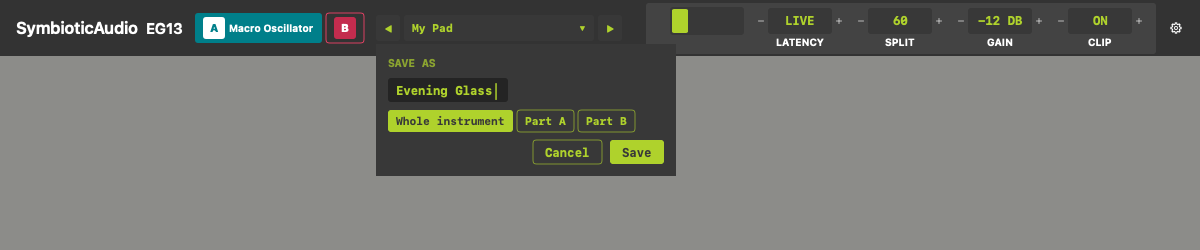
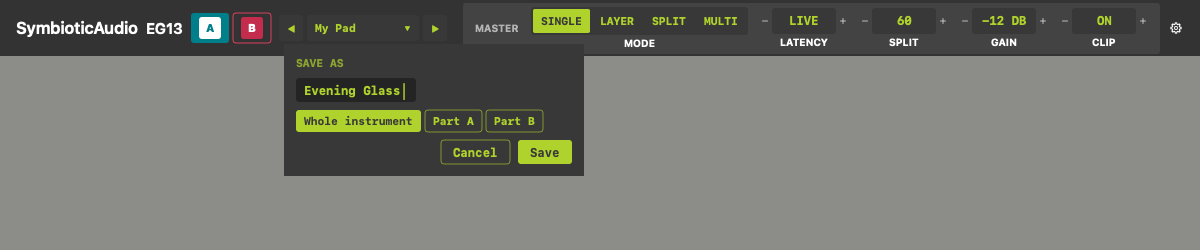
M7: keep MASTER intact beside the preset bar, record gate 5a
Claude-Session: https://claude.ai/code/session_01BfbDAN2RSSY1ZShBua2VNM

diff --git a/ui/EG13UI/Sources/EG13UI/Views/EG13HeaderView.swift b/ui/EG13UI/Sources/EG13UI/Views/EG13HeaderView.swift
@@ -18,9 +18,9 @@ struct EG13HeaderView: View {
     var body: some View {
         let part = synth.selectedPart
         let header = synth.editorControls(part: part).header
-        HStack(spacing: theme.spacing.m) {
-            wordmark
-            partTabs
+        HStack(spacing: theme.spacing.s) {
+            wordmark.fixedSize()
+            partTabs.layoutPriority(1)
             EG13PresetBar(synth: synth)
                 .environment(\.eg13ControlColors, EG13Palette.headerControls)
             Spacer(minLength: 0)
@@ -50,6 +50,13 @@ struct EG13HeaderView: View {
     }
 
     private var partTabs: some View {
+        ViewThatFits(in: .horizontal) {
+            partTabs(showsEngineName: true)
+            partTabs(showsEngineName: false)
+        }
+    }
+
+    private func partTabs(showsEngineName: Bool) -> some View {
         HStack(spacing: theme.spacing.xs) {
             ForEach(0..<EG13ParamID.parts, id: \.self) { part in
                 let selected = synth.selectedPart == part
@@ -61,7 +68,8 @@ struct EG13HeaderView: View {
                             .frame(width: 22, height: 22)
                             .background(RoundedRectangle(cornerRadius: 3)
                                 .fill(selected ? EG13Palette.white.color : EG13Palette.part(part).ink.color))
-                        if selected {
+                        if selected && showsEngineName {
+                            // The engine name goes when the header is too narrow for it and the preset bar.
                             Text(synth.slot(EG13_SLOT_KIND_SOURCE, part: part).engineName)
                                 .font(theme.type.caption.font.weight(.bold))
                                 .lineLimit(1)
@@ -102,6 +110,7 @@ struct EG13HeaderView: View {
         }
         .padding(.horizontal, theme.spacing.m)
         .padding(.vertical, 4)
+        .fixedSize()  // keeps its full size; the preset bar gives way
         .background(RoundedRectangle(cornerRadius: theme.radius.s).fill(EG13Palette.white.color.opacity(0.08)))
         .environment(\.eg13ControlColors, EG13Palette.headerControls)
         .accessibilityElement(children: .contain)

diff --git a/ui/EG13UI/Sources/EG13UI/Views/EG13PresetBar.swift b/ui/EG13UI/Sources/EG13UI/Views/EG13PresetBar.swift
@@ -80,6 +80,7 @@ struct EG13PresetBar: View {
     @Bindable var synth: EG13Synth
     @State private var dialog: EG13PresetDialog?
     @State private var shownMessage: String?
+    @State private var messageTask: Task<Void, Never>?
     @Environment(\.eg13ControlColors) private var colors
     @Environment(\.eg13InteractiveControls) private var interactive
     @Environment(\.symbioticTheme) private var theme
@@ -95,7 +96,7 @@ struct EG13PresetBar: View {
                 .overlay(alignment: .bottomLeading) { messageLine.offset(y: 15) }
             arrow("\u{25B6}", label: "Next preset") { presets.step(1) }
         }
-        .frame(minWidth: 170, idealWidth: 320, maxWidth: 360)
+        .frame(minWidth: 150, idealWidth: 220, maxWidth: 320)
         .onChange(of: presets.message) { _, new in show(new) }
         .accessibilityElement(children: .contain)
         .accessibilityLabel("Presets")
@@ -219,9 +220,11 @@ struct EG13PresetBar: View {
     private func show(_ text: String?) {
         guard let text else { return }
         shownMessage = text
-        Task { @MainActor in
+        messageTask?.cancel()  // a new message restarts the four seconds
+        messageTask = Task { @MainActor in
             try? await Task.sleep(for: .seconds(Self.messageSeconds))
-            if shownMessage == text { shownMessage = nil }
+            guard !Task.isCancelled else { return }
+            shownMessage = nil
             if synth.presets.message == text { synth.presets.dismissMessage() }
         }
     }

diff --git a/ui/EG13UI/Sources/EG13UIPreview/EG13Snapshot.swift b/ui/EG13UI/Sources/EG13UIPreview/EG13Snapshot.swift
@@ -591,7 +591,7 @@ struct EG13PresetSheet<Content: View>: View {
     let synth: EG13Synth
     let content: Content
     /// Where the bar's left edge is in the header (measured from a header snapshot).
-    var barX: CGFloat { synth.kind == .effect ? 398 : 376 }
+    var barX: CGFloat { synth.kind == .effect ? 306 : 284 }
 
     var body: some View {
         ZStack(alignment: .topLeading) {

diff --git a/docs/superpowers/specs/2026-10-27-m7-release-design.md b/docs/superpowers/specs/2026-10-27-m7-release-design.md
@@ -71,8 +71,8 @@ Bank 1 has "a few combination patches A+B as well as single-part sounds" (owner)
 - **Layout:** `◀  [ preset name ▾ ]  ▶` in the header's preset area (parent spec §8). The visual design goes to the owner as a design gate with screenshots, as in M6a and M6b.
 - **Kinds in the list:** each entry shows a small mark for its kind, Performance (A+B) or Patch (one part).
 - **Loading a Patch:** the user chooses A or B (owner).
-  - Clicking a Patch loads it into the part currently shown in the editor (the A/B tab).
-  - The entry also has a submenu, "Load into A" and "Load into B".
+  - A Patch row in the dropdown is a submenu, "Load into A" and "Load into B" (owner-approved at gate 5a, 2026-10-27: a macOS menu row cannot both load on click and open a submenu). Clicking the row itself does not load.
+  - The arrows load a Patch into the part currently shown in the editor (the A/B tab).
 - **Arrows:** step through the presets in list order and run on across bank boundaries. A Patch loads into the part currently shown. Claude's call: they wrap from the last User preset to the first Bank 1 preset.
 - **Name display:** the name shown is the last preset loaded. When a Patch is loaded into one part, the header shows the part's name too, for example "A: Glass Bells". Claude's call: the header shows "A: … / B: …" when the two parts came from different Patches.
 - **Dropdown:**

diff --git a/docs/superpowers/m6-resume.md b/docs/superpowers/m6-resume.md
@@ -350,3 +350,5 @@ Status: awaiting owner feedback.
 ## M7 preset bar log
 
 **Round 1** (screenshots in docs/superpowers/m7-design/browser-r1/): header `◀ [ name ▾ ] ▶` in the LCD style; dropdown grouped by bank with A+B / A|B kind marks, tick, Patch submenus (Load into A / B), Init, Save, Save As…, Rename…, Delete…; `*` edited mark; 4 s message line under the name; Save As / clash panels. Status: awaiting owner feedback.
+
+**Round 1 approved by the owner, 2026-10-27 ("looks good").** Patch rows are submenus (Load into A / Load into B); clicking a Patch row does not load; the arrows load Patches into the shown part. Fix after review: the MASTER group keeps its full size and the preset bar gives way (name truncates); screenshots re-shot.
